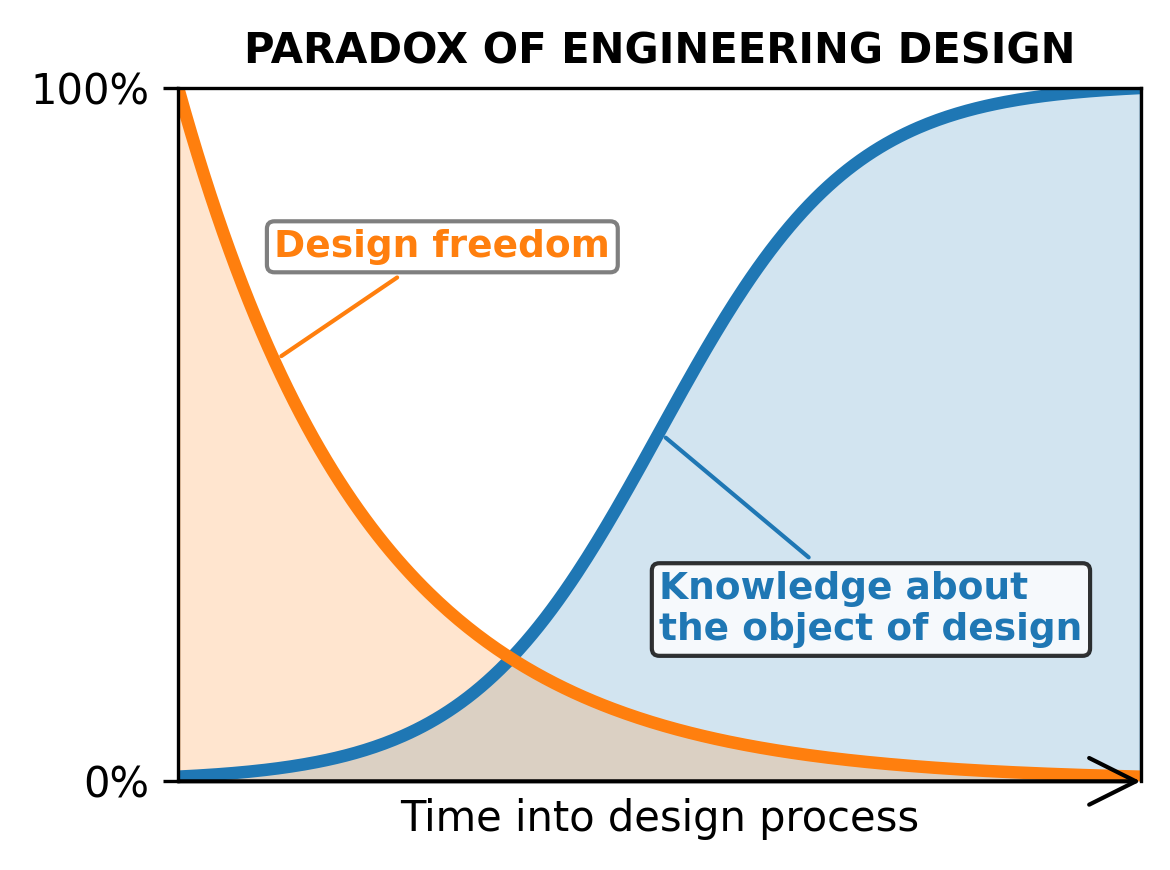
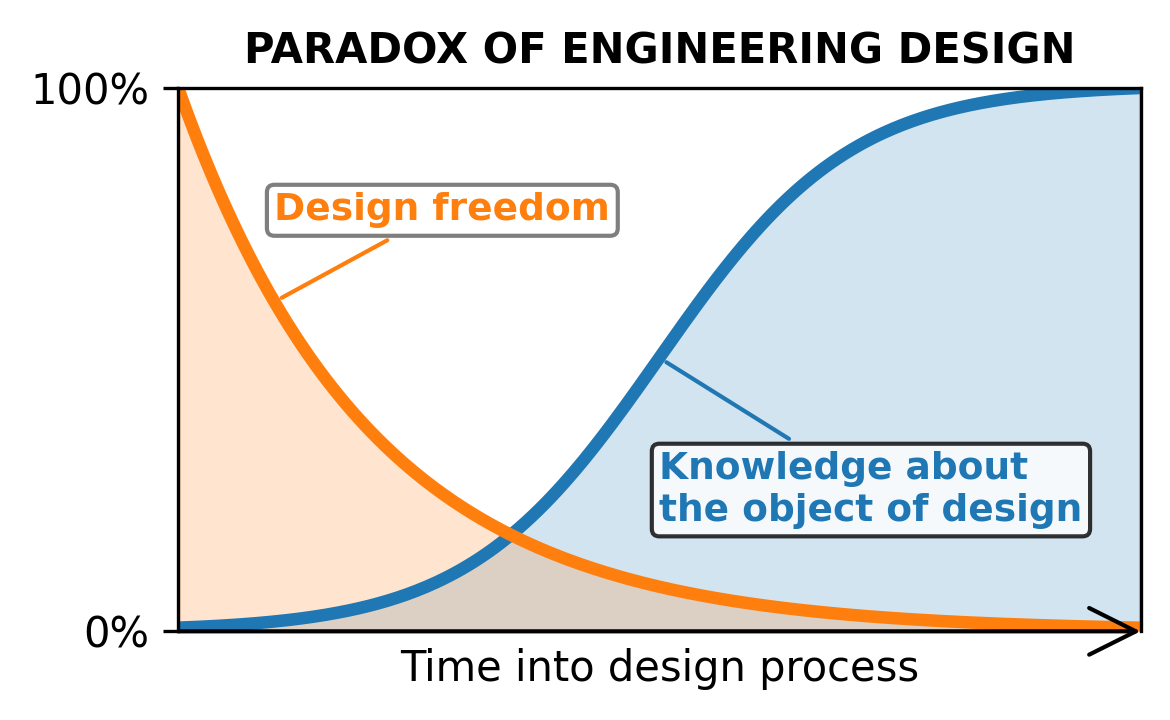
new paradox fig

diff --git a/paradox.py b/paradox.py
@@ -18,7 +18,8 @@ knowledge = 100 * knowledge / np.max(knowledge)
 freedom = 100 * freedom / np.max(freedom)
 
 
-plt.figure(figsize=(4, 3))
+# plt.figure(figsize=(4, 3))
+plt.figure(figsize=(4, 2.5))
 plt.plot(time, knowledge, label='KNOWLEDGE ABOUT\nTHE OBJECT OF DESIGN', linewidth=3)
 # plt.plot(time, freedom, label='DESIGN\nFREEDOM', linewidth=3)
 plt.plot(time, freedom, label='DESIGN FREEDOM', linewidth=3)
